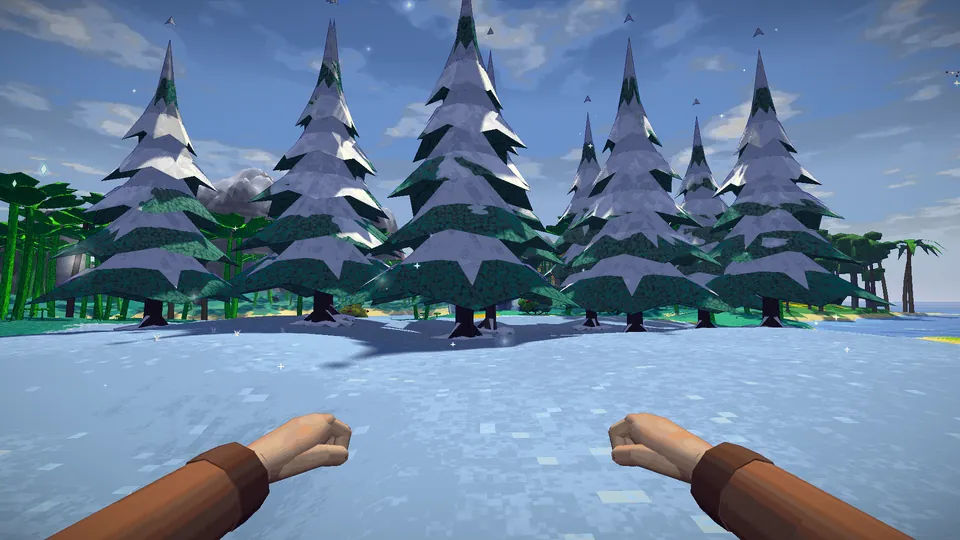
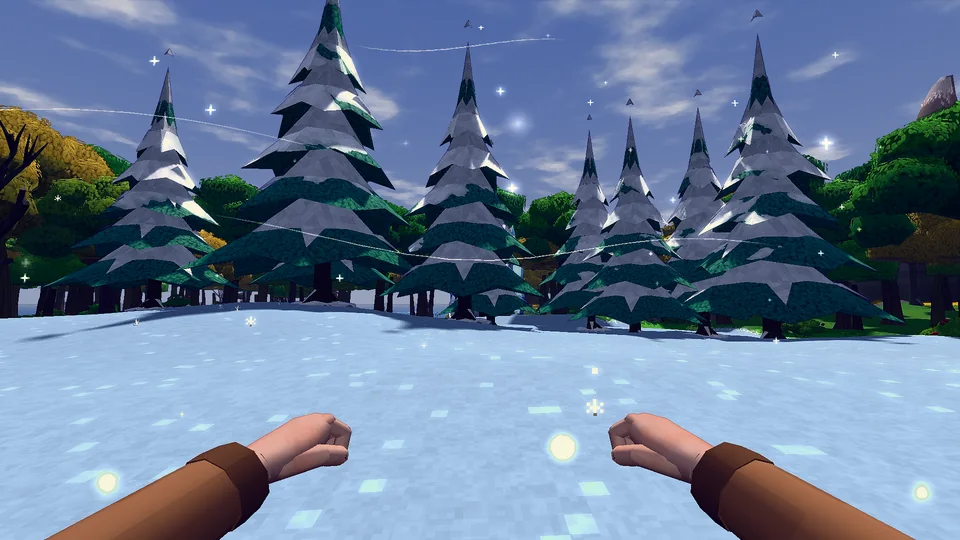
Retake the older pictures on 0.9.8; far shore with the new water
The hero, the wonders, two dragon shots, the map and 3D slider, Crabzilla, the day and
night slider, the night tiles, the talk, home, power and wolf tiles and eight biomes,
retaken where the old ones showed the old HUD or older models. The far shore shows the
new water from a beach at golden hour. The draw distance line names the F2 menu (F6 is
gone), and captions follow their new pictures.

diff --git a/index.html b/index.html
@@ -289,7 +289,7 @@ footer p { max-width: 60ch; }
 <main>
   <section class="dive" id="dive" aria-labelledby="title">
     <div class="screen">
-      <img class="poster" src="shots/hero.webp" alt="First person in a village by day: your hands in view, a half-timbered house ahead among teal roofs and autumn trees." fetchpriority="high">
+      <img class="poster" src="shots/hero.webp?v=98" alt="First person in a village by day: stone cottages with blue roofs on the left, an apple bush and villagers on the grass, autumn trees behind." fetchpriority="high">
       <div class="scrim"></div>
 
       <div class="intro">
@@ -566,15 +566,15 @@ footer p { max-width: 60ch; }
       </div>
       <div class="trio">
         <figure>
-          <div class="shot"><img src="shots/wonder_harp.webp" alt="A giant golden harp on a marble dais in a lavender meadow, a beam of light rising from it." loading="lazy"></div>
+          <div class="shot"><img src="shots/wonder_harp.webp?v=98" alt="A giant golden-stringed harp on a round dais in the snow among pines, by day." loading="lazy"></div>
           <figcaption>The harp waypoint, calling pilgrims.</figcaption>
         </figure>
         <figure>
-          <div class="shot"><img src="shots/wonder_ice.webp" alt="An ice mage tower of pale blue crystal spires round a gatehouse, fires burning at its foot." loading="lazy"></div>
+          <div class="shot"><img src="shots/wonder_ice.webp?v=98" alt="The ice tower: a dark stone keep wrapped in tall blue crystals, standing on snow among pines." loading="lazy"></div>
           <figcaption>The ice tower.</figcaption>
         </figure>
         <figure>
-          <div class="shot"><img src="shots/wonder_pumpkin.webp" alt="A giant pumpkin with a glowing carved face among dark trees at night." loading="lazy"></div>
+          <div class="shot"><img src="shots/wonder_pumpkin.webp?v=98" alt="The pumpkin king at night: a giant carved pumpkin with a glowing face on vine legs, a smaller lit pumpkin beside it in the snow." loading="lazy"></div>
           <figcaption>The pumpkin king, its face lit at night.</figcaption>
         </figure>
       </div>
@@ -594,12 +594,12 @@ footer p { max-width: 60ch; }
           <figcaption>Breathing fire over the rooftops at dusk.</figcaption>
         </figure>
         <figure>
-          <div class="shot"><img src="shots/dragon_over_town.webp" alt="The 3D god view looking down on a coastal town among autumn trees, a red dragon spreading its wings over it." loading="lazy"></div>
-          <figcaption>The same dragon in the 3D god view, over the town.</figcaption>
+          <div class="shot"><img src="shots/dragon_over_town.webp?v=98" alt="The 3D god view from above: a red dragon with wings spread over a town burning at dusk, the sea to the left." loading="lazy"></div>
+          <figcaption>A dragon over a burning town, in the 3D god view.</figcaption>
         </figure>
         <figure>
-          <div class="shot"><img src="shots/dragon_glide.webp" alt="A red dragon gliding over a steep roof and autumn trees in the evening sky." loading="lazy"></div>
-          <figcaption>Gliding in over the roofs at golden hour.</figcaption>
+          <div class="shot"><img src="shots/dragon_glide.webp?v=98" alt="A red dragon climbing into a blue evening sky above a windmill and slate roofs." loading="lazy"></div>
+          <figcaption>Climbing over the windmill, late in the day.</figcaption>
         </figure>
       </div>
     </div>
@@ -638,8 +638,8 @@ footer p { max-width: 60ch; }
       </div>
       <figure style="margin:0">
         <div class="cmp" id="cmp">
-          <img src="shots/god_day.webp" alt="The village in the 3D god view: timber houses with teal roofs among green and autumn trees by the sea." loading="lazy">
-          <img class="top" src="shots/map_flat.webp" alt="The same village on WorldBox's flat map." loading="lazy">
+          <img src="shots/god_day.webp?v=98" alt="A snowy village in the 3D god view: stone and timber houses, a fountain and snowy pines on a point by the sea." loading="lazy">
+          <img class="top" src="shots/map_flat.webp?v=98" alt="The same village on WorldBox's flat map." loading="lazy">
           <span class="rule"></span>
           <span class="tag l">Flat map</span><span class="tag r">3D view</span>
           <input type="range" id="cmp-range" min="0" max="100" value="50" step="0.5" aria-label="Slide between the flat map and the 3D view">
@@ -683,8 +683,8 @@ footer p { max-width: 60ch; }
       </div>
       <div class="trio">
         <figure>
-          <div class="shot"><img src="shots/crab.webp" alt="Crabzilla's red claws in view, firing cyan lasers into a burning town while a dragon flies overhead." loading="lazy"></div>
-          <figcaption>Crabzilla's claw lasers, with a dragon overhead.</figcaption>
+          <div class="shot"><img src="shots/crab.webp?v=98" alt="Crabzilla's red scaled claws in view, a green laser between them burning the forest floor at sunset." loading="lazy"></div>
+          <figcaption>Crabzilla's claw lasers, from its own eyes.</figcaption>
         </figure>
         <figure>
           <div class="shot"><img src="shots/nuke.webp?v=98" alt="An atomic bomb's mushroom cloud rising into a sunset sky, seen from a hillside." loading="lazy"></div>
@@ -707,9 +707,9 @@ footer p { max-width: 60ch; }
       </div>
       <div class="hours">
         <div class="stack" id="hours-stack">
-          <img src="shots/camp_day.webp" alt="A camp of straw huts round a cooking fire under big trees by a beach, in daylight." loading="lazy">
-          <img src="shots/camp_sunset.webp" alt="The same camp at sunset, the sky orange behind the trees and the sea glittering." loading="lazy" style="opacity:0">
-          <img src="shots/camp_night.webp" alt="The same camp at night under the stars, the fire lighting the huts." loading="lazy" style="opacity:0">
+          <img src="shots/camp_day.webp?v=98" alt="Stone houses with blue slate roofs under big trees in a village, in daylight." loading="lazy">
+          <img src="shots/camp_sunset.webp?v=98" alt="The same houses at dusk, warm light on the walls under a violet sky." loading="lazy" style="opacity:0">
+          <img src="shots/camp_night.webp?v=98" alt="The same houses at night, their windows lit and fireflies over the grass." loading="lazy" style="opacity:0">
         </div>
         <div class="dial">
           <input type="range" id="hour" min="0" max="200" value="0" aria-label="Time of day: day, sunset, night">
@@ -718,11 +718,11 @@ footer p { max-width: 60ch; }
       </div>
       <div class="trio sky">
         <figure>
-          <div class="shot"><img src="shots/lighthouse.webp" alt="A lighthouse with a lit lamp by a pier at night, the Milky Way above a violet sea." loading="lazy"></div>
-          <figcaption>A lighthouse under the Milky Way.</figcaption>
+          <div class="shot"><img src="shots/lighthouse.webp?v=98" alt="First person on a village street at night: a timber hall with glowing windows, lamp posts lighting the path, an old man sitting on the grass." loading="lazy"></div>
+          <figcaption>Lit windows and lamp posts along a street at night.</figcaption>
         </figure>
         <figure>
-          <div class="shot"><img src="shots/aurora.webp" alt="Green and violet northern lights over the sea above the town's spire." loading="lazy"></div>
+          <div class="shot"><img src="shots/aurora.webp?v=98" alt="Green northern lights over a seaside village at night, lit windows and fireflies below." loading="lazy"></div>
           <figcaption>The northern lights over the town.</figcaption>
         </figure>
         <figure>
@@ -742,15 +742,15 @@ footer p { max-width: 60ch; }
       </div>
       <div class="grid">
         <figure>
-          <div class="shot"><img src="shots/talk.webp" alt="Talking to a villager on a beach at sunset; her reply in a panel: Keep your distance, outsider." loading="lazy"></div>
+          <div class="shot"><img src="shots/talk.webp?v=98" alt="Talking to a villager in a village street; the conversation panel lists questions about his family, his life, the news and the king." loading="lazy"></div>
           <figcaption><h3>Talk to anyone</h3><p>Press <kbd>E</kbd> for a whole conversation: their work, their family, the news, their king.</p></figcaption>
         </figure>
         <figure>
-          <div class="shot"><img src="shots/home.webp" alt="Inside a stone house: a table with a candle, a bed and a rug, sunlight through a small window." loading="lazy"></div>
-          <figcaption><h3>Walk into their homes</h3><p>Every house has a room inside, with its hearth and table and daylight through the windows.</p></figcaption>
+          <div class="shot"><img src="shots/home.webp?v=98" alt="Inside a timber house by day: a table with a jug and candle under an iron chandelier, a stair up and sunlight on the walls." loading="lazy"></div>
+          <figcaption><h3>Walk into their homes</h3><p>Every house has a furnished room inside, lit by candles and its windows.</p></figcaption>
         </figure>
         <figure>
-          <div class="shot"><img src="shots/power.webp" alt="An evil mage's fireball setting a street of houses ablaze." loading="lazy"></div>
+          <div class="shot"><img src="shots/power.webp?v=98" alt="Holding an evil mage's red-gem staff in a street of stone houses, the ground ablaze after a fireball." loading="lazy"></div>
           <figcaption><h3>Use your kind's power</h3><p><kbd>X</kbd> throws a bandit's firebomb, raises a necromancer's dead, casts an evil mage's fireball.</p></figcaption>
         </figure>
         <figure>
@@ -762,7 +762,7 @@ footer p { max-width: 60ch; }
           <figcaption><h3>Take the helm</h3><p>Take over a ship and steer her yourself: <kbd>W</kbd>/<kbd>S</kbd> set the sails, <kbd>A</kbd>/<kbd>D</kbd> turn the wheel, <kbd>Shift</kbd> fills the sails with a gust.</p></figcaption>
         </figure>
         <figure>
-          <div class="shot"><img src="shots/wolf.webp" alt="A wolf's low view across a bay to pink blossom trees at golden hour." loading="lazy"></div>
+          <div class="shot"><img src="shots/wolf.webp?v=98" alt="A wolf's low view across a bay to an island of baobab trees, late in the day." loading="lazy"></div>
           <figcaption><h3>Be anything</h3><p>A wolf, a sheep, a skeleton, Crabzilla. Every creature you can possess, you can see through.</p></figcaption>
         </figure>
       </div>
@@ -774,11 +774,11 @@ footer p { max-width: 60ch; }
       <div class="head">
         <p class="eyebrow">Draw distance: the whole map</p>
         <h2>All the way to the far shore</h2>
-        <p>See 270 tiles out, or to the other side of the map (<kbd>F6</kbd>). Far mountains turn blue in the haze and the low sun lays a road of light across the sea.</p>
+        <p>See 270 tiles out, or the whole map (Draw distance in the <kbd>F2</kbd> menu). Far mountains turn blue in the haze and the low sun lays a road of light across the sea.</p>
       </div>
       <figure class="wide">
-        <div class="shot"><img src="shots/sea.webp" alt="Standing on a sandy shore at golden hour, the sun low over a glittering sea and a distant island." loading="lazy"></div>
-        <figcaption>A villager on the shore below his town, golden hour.</figcaption>
+        <div class="shot"><img src="shots/sea.webp?v=98" alt="Looking out from a beach at golden hour: the low sun over a calm sea, a glittering road of light running in over the clear shallows, and a jungle shore curving away on the right." loading="lazy"></div>
+        <figcaption>A beach at golden hour, the low sun laying a road of light across the sea.</figcaption>
       </figure>
     </div>
   </section>
@@ -788,27 +788,27 @@ footer p { max-width: 60ch; }
       <div class="head">
         <p class="eyebrow">Every biome</p>
         <h2>Candy canes to crystal spires</h2>
-        <p>All 22 of WorldBox's biomes have their own ground, trees and plants in 3D, and their own air: mist, embers, petals or sparks in the light. These are from one test world, a few steps apart, in version 0.9.5.</p>
+        <p>All 22 of WorldBox's biomes have their own ground, trees and plants in 3D, and their own air: mist, embers, petals or sparks in the light. These are from test worlds, a few steps apart.</p>
       </div>
       <div class="strip" tabindex="0" aria-label="Biome screenshots, scroll sideways">
         <figure><div class="shot"><img src="shots/biome_mushroom.webp" alt="Giant red-capped mushrooms on green ground." loading="lazy"></div><figcaption>Mushroom</figcaption></figure>
-        <figure><div class="shot"><img src="shots/biome_crystal.webp" alt="Purple crystal trees on cyan ground." loading="lazy"></div><figcaption>Crystal</figcaption></figure>
+        <figure><div class="shot"><img src="shots/biome_crystal.webp?v=98" alt="Purple crystal trees on cyan ground." loading="lazy"></div><figcaption>Crystal</figcaption></figure>
         <figure><div class="shot"><img src="shots/biome_candy.webp" alt="Red and white candy canes on pink ground." loading="lazy"></div><figcaption>Candy</figcaption></figure>
         <figure><div class="shot"><img src="shots/biome_celestial.webp" alt="Huge dark celestial trees under violet crowns." loading="lazy"></div><figcaption>Celestial</figcaption></figure>
         <figure><div class="shot"><img src="shots/biome_infernal.webp" alt="Black trees with glowing embers on red ground." loading="lazy"></div><figcaption>Infernal</figcaption></figure>
-        <figure><div class="shot"><img src="shots/biome_permafrost.webp" alt="Snow-laden pines on frozen ground." loading="lazy"></div><figcaption>Permafrost</figcaption></figure>
-        <figure><div class="shot"><img src="shots/biome_corrupted.webp" alt="Dead trees with glowing red eyes on purple ground." loading="lazy"></div><figcaption>Corrupted</figcaption></figure>
+        <figure><div class="shot"><img src="shots/biome_permafrost.webp?v=98" alt="Snow-laden pines on frozen ground." loading="lazy"></div><figcaption>Permafrost</figcaption></figure>
+        <figure><div class="shot"><img src="shots/biome_corrupted.webp?v=98" alt="Dead trees with glowing red eyes on purple ground." loading="lazy"></div><figcaption>Corrupted</figcaption></figure>
         <figure><div class="shot"><img src="shots/biome_flower.webp" alt="Giant sunflowers and blooms on bright grass." loading="lazy"></div><figcaption>Flower</figcaption></figure>
         <figure><div class="shot"><img src="shots/biome_singularity.webp" alt="Twisted dark spires ringed in pink on violet ground." loading="lazy"></div><figcaption>Singularity</figcaption></figure>
-        <figure><div class="shot"><img src="shots/biome_savanna.webp" alt="A baobab and flat-topped acacias on golden grass." loading="lazy"></div><figcaption>Savanna</figcaption></figure>
-        <figure><div class="shot"><img src="shots/biome_enchanted.webp" alt="Pink round-crowned trees on green grass." loading="lazy"></div><figcaption>Enchanted</figcaption></figure>
+        <figure><div class="shot"><img src="shots/biome_savanna.webp?v=98" alt="A baobab and flat-topped acacias on golden grass." loading="lazy"></div><figcaption>Savanna</figcaption></figure>
+        <figure><div class="shot"><img src="shots/biome_enchanted.webp?v=98" alt="Pink round-crowned trees on green grass." loading="lazy"></div><figcaption>Enchanted</figcaption></figure>
         <figure><div class="shot"><img src="shots/biome_garlic.webp" alt="Giant garlic bulbs with drooping leaves." loading="lazy"></div><figcaption>Garlic</figcaption></figure>
-        <figure><div class="shot"><img src="shots/biome_desert.webp" alt="Palms and cacti on sand." loading="lazy"></div><figcaption>Desert</figcaption></figure>
+        <figure><div class="shot"><img src="shots/biome_desert.webp?v=98" alt="Palms and cacti on sand." loading="lazy"></div><figcaption>Desert</figcaption></figure>
         <figure><div class="shot"><img src="shots/biome_swamp.webp" alt="Mangroves on stilt roots over dark marsh." loading="lazy"></div><figcaption>Swamp</figcaption></figure>
         <figure><div class="shot"><img src="shots/biome_maple.webp" alt="Red and gold maples on orange ground." loading="lazy"></div><figcaption>Maple</figcaption></figure>
-        <figure><div class="shot"><img src="shots/biome_lemon.webp" alt="Round lemon trees on yellow-green grass." loading="lazy"></div><figcaption>Lemon</figcaption></figure>
+        <figure><div class="shot"><img src="shots/biome_lemon.webp?v=98" alt="Round lemon trees on yellow-green grass." loading="lazy"></div><figcaption>Lemon</figcaption></figure>
         <figure><div class="shot"><img src="shots/biome_jungle.webp" alt="Tall jungle trees hung with vines." loading="lazy"></div><figcaption>Jungle</figcaption></figure>
-        <figure><div class="shot"><img src="shots/biome_paradox.webp" alt="Jagged black trees lit with gold on brown ground." loading="lazy"></div><figcaption>Paradox</figcaption></figure>
+        <figure><div class="shot"><img src="shots/biome_paradox.webp?v=98" alt="Jagged black trees lit with gold on brown ground." loading="lazy"></div><figcaption>Paradox</figcaption></figure>
         <figure><div class="shot"><img src="shots/biome_birch.webp" alt="Birches on bright green grass." loading="lazy"></div><figcaption>Birch</figcaption></figure>
         <figure><div class="shot"><img src="shots/biome_rocklands.webp" alt="Stony trees on grey rocky ground." loading="lazy"></div><figcaption>Rocklands</figcaption></figure>
         <figure><div class="shot"><img src="shots/biome_wasteland.webp" alt="Gnarled dark trees on grey-green wasteland." loading="lazy"></div><figcaption>Wasteland</figcaption></figure>
